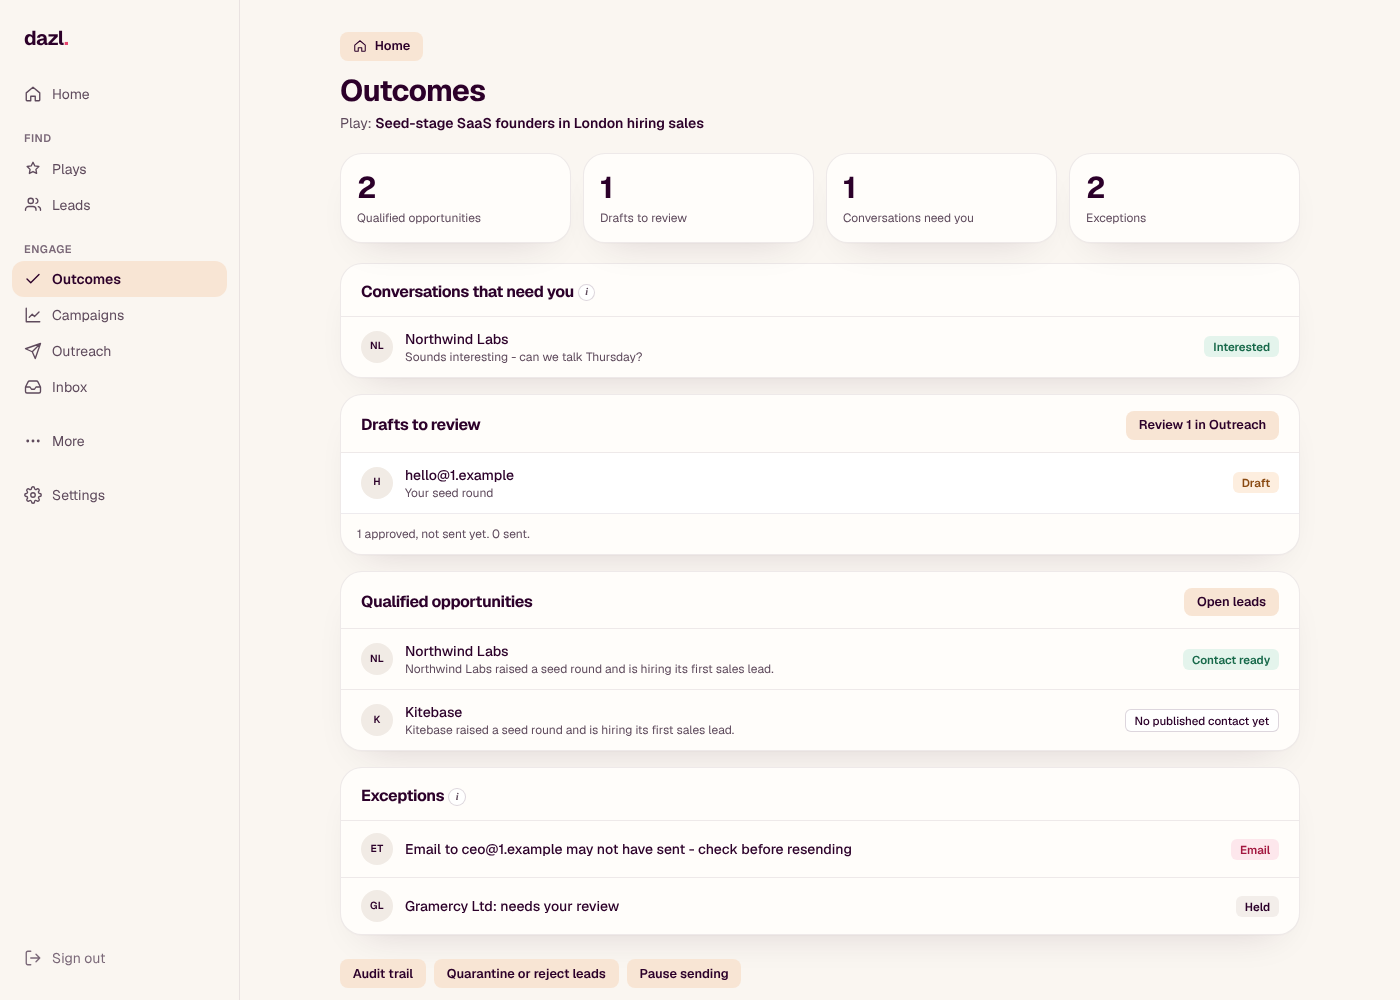
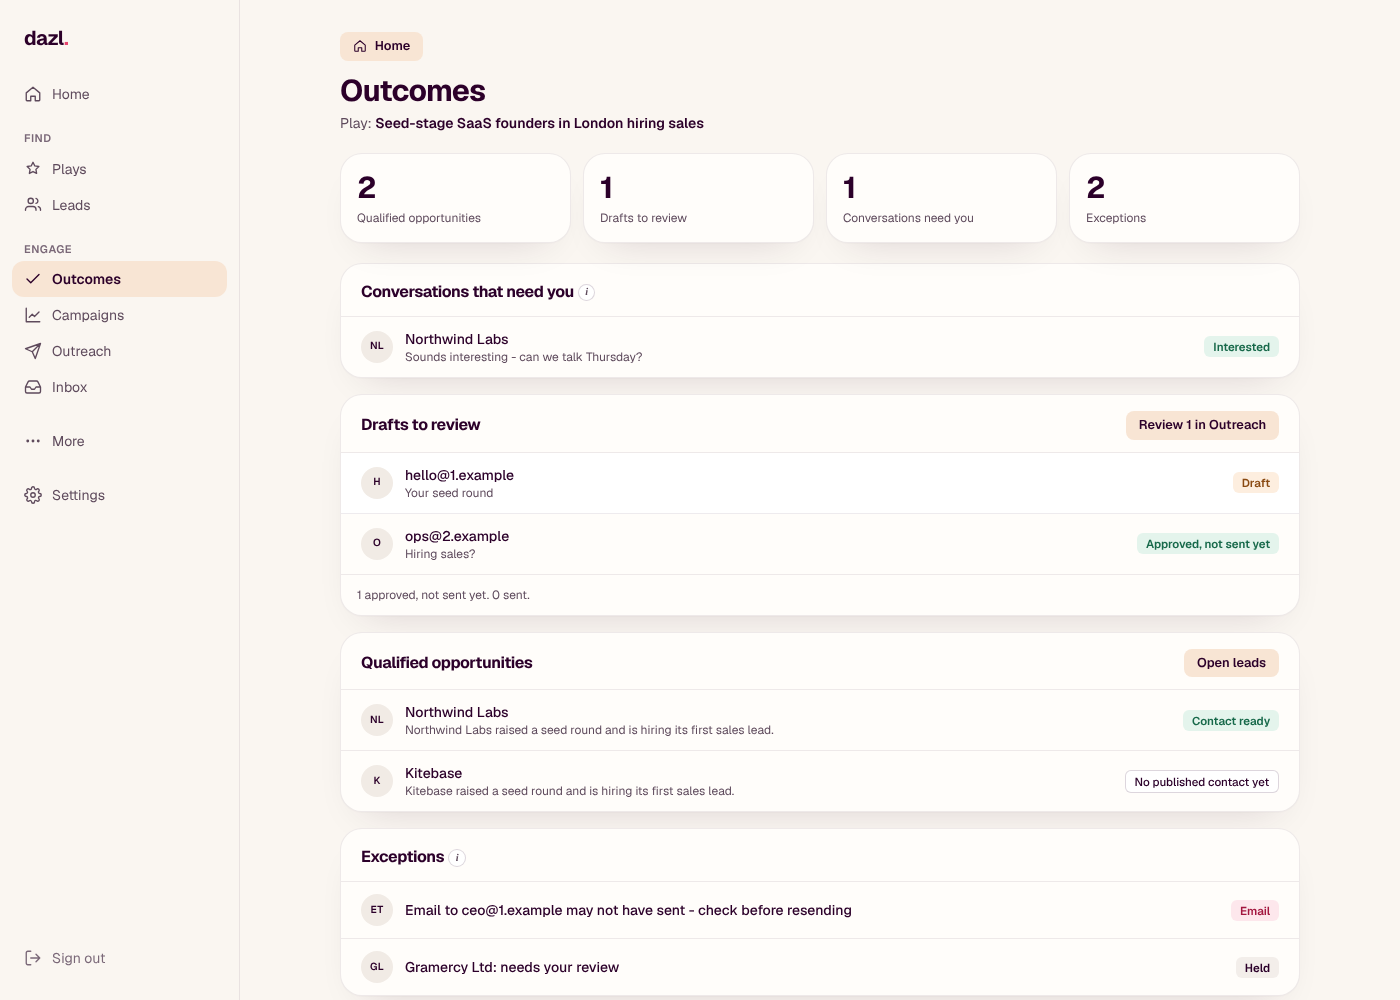
Outcomes: stopped threads never need the owner; approved-unsent shows with zero drafts
Instinct #305 review of 45d6d06:
- lib/outcomes.ts drops replies whose follow-up thread is stopped from
  "Conversations that need you".
- The drafts section lists approved-but-unsent emails (with their own pill and
  the "N approved, not sent yet" line) and is never shown as empty while one
  waits, also when there are no drafts.
- Unit tests for both; journey-flow.ui.mjs adds a zero-drafts + stopped-thread
  outcomes case with a screenshot (docs/screenshots/journey/outcomes-approved-stopped.png).

Claude-Session: https://claude.ai/code/session_01CafonXdzjwkFYiMRJWtsKo

diff --git a/web/app/app/outcomes/outcomes-client.tsx b/web/app/app/outcomes/outcomes-client.tsx
@@ -61,8 +61,10 @@ export default function OutcomesClient() {
       {o.conversations?.rows.map(r => <Row key={r.gmail_id} name={r.company || r.from_email} sub={r.excerpt} right={<Pill tone={r.classification === 'positive' ? 'mint' : 'lav'}>{r.classification === 'positive' ? 'Interested' : 'Needs a read'}</Pill>} href="/app/inbox" />)}
     </Section>
 
-    <Section title="Drafts to review" testid="outcomes-drafts" empty="No drafts waiting." state={o.drafts ? o.drafts.length : null} loading={loading} action={o.drafts?.length ? { label: `Review ${o.drafts.length} in Outreach`, href: outreachHref } : null}>
+    {/* Approved-but-unsent emails are listed here too (with zero drafts as well): they wait only for their send. */}
+    <Section title="Drafts to review" testid="outcomes-drafts" empty="No drafts waiting." state={o.drafts && o.approved ? o.drafts.length + o.approved.length : null} loading={loading} action={o.drafts?.length ? { label: `Review ${o.drafts.length} in Outreach`, href: outreachHref } : null}>
       {o.drafts?.map(m => <Row key={m.id} name={m.to_email} sub={m.subject} right={<Pill tone="peach">Draft</Pill>} href={outreachHref} />)}
+      {o.approved?.map(m => <Row key={m.id} name={m.to_email} sub={m.subject} right={<Pill tone="mint">Approved, not sent yet</Pill>} href={outreachHref} />)}
       {o.approved && o.approved.length > 0 && <p className="px-4 py-3 text-xs text-[var(--ink-2)]" data-testid="outcomes-approved">{o.approved.length} approved, not sent yet. {o.sent?.length ?? 0} sent.</p>}
     </Section>
 

diff --git a/web/lib/outcomes.ts b/web/lib/outcomes.ts
@@ -19,7 +19,8 @@ export interface Outcomes {
 }
 
 // Replies that need the owner: an interested answer, or a human answer the rules could not sort. A "no", an opt-out
-// (already honoured by the send rails) and auto-replies are not counted as needing the owner.
+// (already honoured by the send rails) and auto-replies are not counted as needing the owner, and neither is a thread
+// that is already stopped.
 const NEEDS_OWNER = new Set(['positive', 'other'])
 const FAILED_SEND = new Set(['failed', 'uncertain'])
 
@@ -29,7 +30,7 @@ export function outcomes(i: { jobId: string; scanFailed: string | null; leads: P
   const mine = i.messages && ids ? i.messages.filter(m => ids.has(m.lead_id)) : i.messages
   const by = (st: string) => mine ? mine.filter(m => m.status === st) : null
   const conversations = i.replies && ids
-    ? { rows: i.replies.filter(r => r.lead_id && ids.has(r.lead_id) && NEEDS_OWNER.has(r.classification)), complete: i.replies.length < INBOX_CAP }
+    ? { rows: i.replies.filter(r => r.lead_id && ids.has(r.lead_id) && NEEDS_OWNER.has(r.classification) && !r.stopped), complete: i.replies.length < INBOX_CAP }
     : null
   let exceptions: Outcomes['exceptions'] = []
   if (i.scanFailed) exceptions.push({ kind: 'scan', text: i.scanFailed, href: `/app/leads?job_id=${i.jobId}` })

diff --git a/web/test/outcomes.test.ts b/web/test/outcomes.test.ts
@@ -28,3 +28,15 @@ test('what did not load is unknown, never zero; a capped reply list is marked in
   const capped = outcomes({ jobId: J, scanFailed: null, leads: [lead('1')], messages: [], replies: Array.from({ length: INBOX_CAP }, () => reply('1', 'positive')) })
   assert.equal(capped.conversations?.complete, false)
 })
+
+test('a stopped thread never counts as a conversation that needs the owner', () => {
+  const stopped = { ...reply('1', 'positive'), stopped: 'replied' }
+  const o = outcomes({ jobId: J, scanFailed: null, leads: [lead('1'), lead('2')], messages: [], replies: [stopped, { ...reply('2', 'other'), stopped: 'opt_out' }, reply('2', 'positive')] })
+  assert.deepEqual(o.conversations?.rows.map(r => [r.lead_id, r.stopped]), [['2', null]])
+})
+
+test('approved-but-unsent emails are reported even with zero drafts', () => {
+  const o = outcomes({ jobId: J, scanFailed: null, leads: [lead('1')], messages: [msg('a1', '1', 'approved')], replies: [] })
+  assert.deepEqual(o.drafts, [])
+  assert.deepEqual(o.approved?.map(m => m.id), ['a1'])
+})
